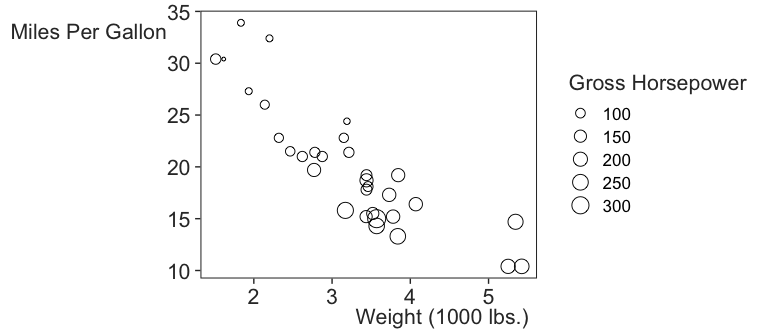
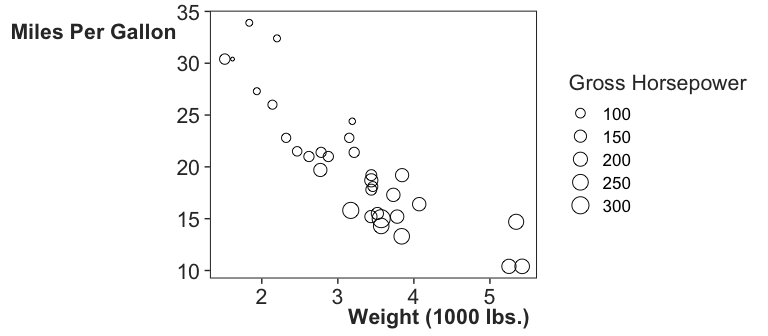
Make titles bold

diff --git a/README.md b/README.md
@@ -32,3 +32,19 @@ ggplot(mtcars, aes(wt, mpg, size = hp)) +
 ```
 
 ![](figs/scatterplot-1.png)<!-- -->
+
+## Bar Plot
+
+``` r
+# load packages
+library(ggplot2)
+library(ggcarly)
+
+# scatterplot
+ggplot(mpg, aes(class)) + 
+  geom_bar() + 
+  coord_flip() + 
+  theme_carly_presents()
+```
+
+![](figs/bar-plot-1.png)<!-- -->
